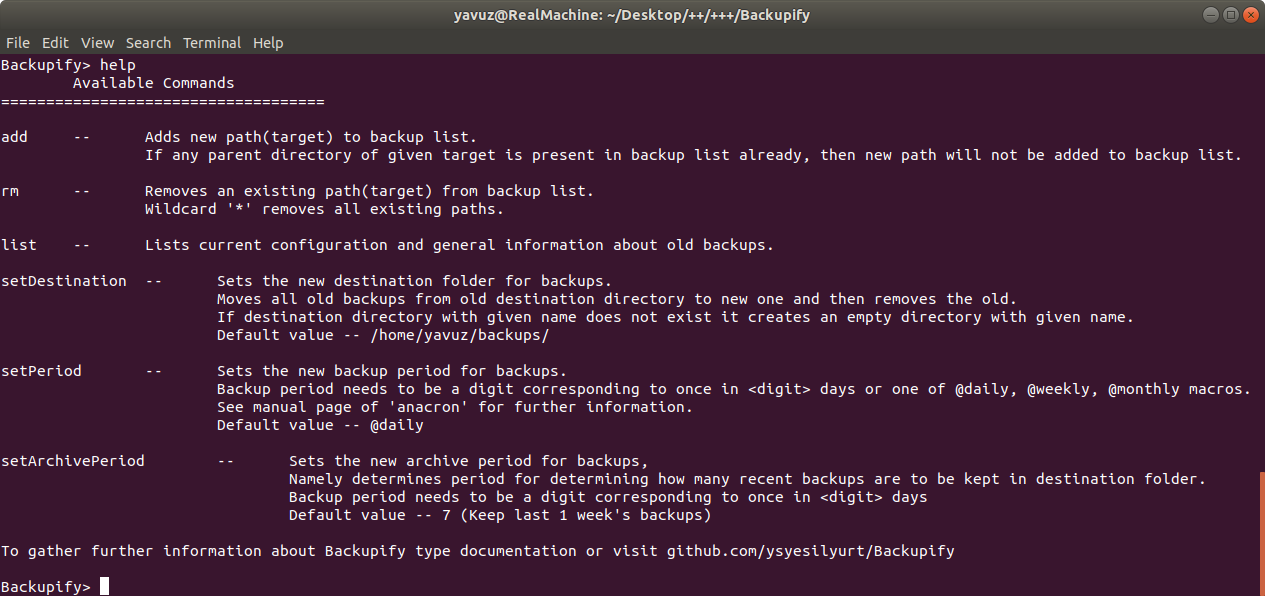
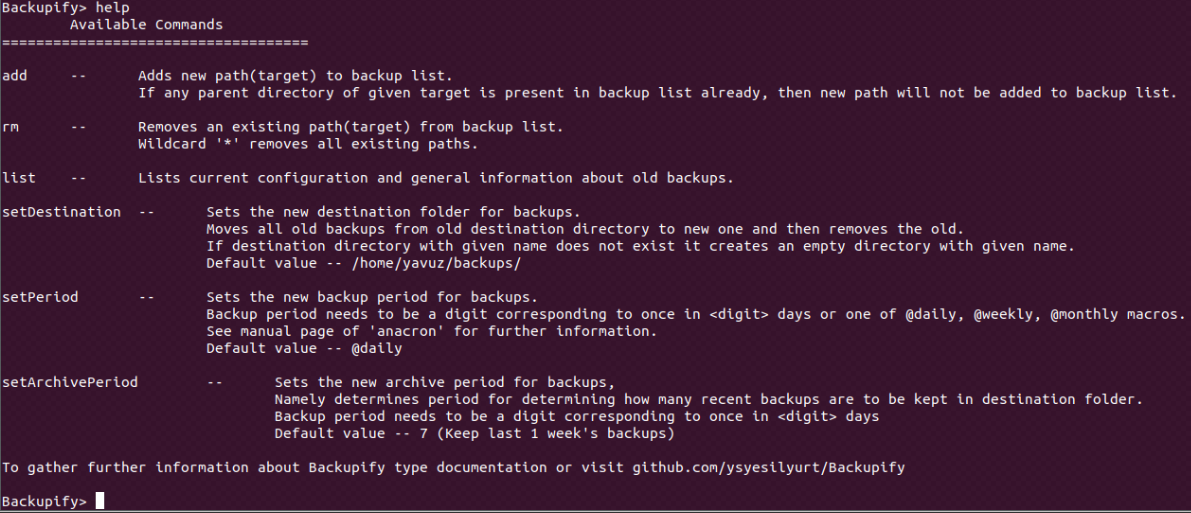
Minor fixes on CLI + refreshing photos

diff --git a/backupify.py b/backupify.py
@@ -61,9 +61,9 @@ class UserLoop(cmd.Cmd):
             self.destination = args
             if self.count != 0:
                 call("mv {0}* {1}".format(temp, args), shell=True)
-                os.rmdir(temp)
                 print("Changed destination folder to {0} and successfully moved all backups under {1} to "
                       "{0}".format(args, temp))
+            os.rmdir(temp)
             self.save()
         else:
             print("Please enter a valid path.")
@@ -135,7 +135,7 @@ class UserLoop(cmd.Cmd):
                     print("{0} Subdirectories under {1} were in targets, since {1} is added to targets, "
                           "the subfolders are deleted from the target list.".format(pathDelCount, args))
             else:
-                print("A parent directory named {} is already in targets, so this path will not be added to "
+                print("A directory named {} is already in targets, so this path will not be added to "
                       "targets.".format(searchPath))
         else:
             print("No such file or directory named {}".format(args))
